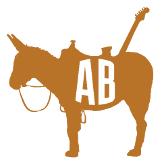
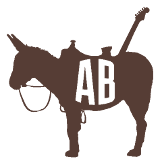
Modified template with new colours

Changed region(s): [[0.0312, 0.0305, 0.9688, 0.9756], [0.1875, 0.6707, 0.25, 0.7012], [0.1562, 0.6402, 0.1875, 0.6707]]

diff --git a/css/styles.css b/css/styles.css
@@ -1,6 +1,6 @@
 html, body {
 	height: 100%;
-	background-color: #fdefc5;
+	background-color: #E4E2E5;
 }
 
 /* START VIDEO PAGE STYLES */
@@ -42,8 +42,8 @@ html, body {
 	margin-top: 0;
 }
 footer {
-	background: #050405;
-	border-bottom: 10px #AF6725 solid;
+	background: #261D22;
+	border-bottom: 10px #563D35 solid;
 }
 #banner {
 	margin-top: 45px;
@@ -55,8 +55,8 @@ footer {
 	-webkit-transform: scale3d(1, 1, 1);
 	*zoom: 1;
 	top: 0px;
-	background-color: #050405;
-	border-top: 5px #AF6725 solid;
+	background-color: #261D22;
+	border-top: 5px #563D35 solid;
 }
 #topbar:after {
 	content: "";
@@ -68,18 +68,20 @@ footer {
 }
 #topbar .ink-navigation ul.black li {
 	font-size: 14px;
-	background-color: #050405;
+	background-color: #261D22;
+	border: 0px;
 }
 #topbar .ink-navigation ul.black li a {
 	padding: .7em 1em;
-	color: #F5B716;
+	color: #BB9911;
 	text-transform: uppercase;
 	font-weight: 300;
 	line-height: 36px;
 	*height: auto;
 }
 #topbar .ink-navigation ul.black li a:hover {
-	color: #F5B716;
+	color: #BB9911;
+	background: #9F9D9E;
 }
 #topbar .ink-navigation ul.black li button.fa-bars span.label {
 	padding: .7em .3em;
@@ -89,7 +91,7 @@ footer {
 #topbar .ink-navigation ul.black li button.fa-bars {
 	background: 0 0;
 	font-size: 1.5em;
-	color: #F5B716;
+	color: #BB9911;
 	border: 0;
 	padding: .8em .8em .8em 0;
 	float: left
@@ -132,7 +134,7 @@ body.ink-drawer .right-drawer li.heading {
 body.ink-drawer .right-drawer li>a {
 	display: block;
 	padding: 6px 15px;
-	color: #F5B716;
+	color: #BB9911;
 	text-decoration: none;
 	text-transform: uppercase;
 	font-size: .875em

diff --git a/_includes/footer.html b/_includes/footer.html
@@ -7,7 +7,7 @@
 				<img src="{{ site.baseurl }}/img/footer_l.png">
 			</div>
 			<div class="all-25 medium-33 small-50 tiny-50 push-middle">
-				<span style="color: #b87329">
+				<span style="color: #563D35">
 				<i class="fa fa-twitter fa-fw"></i> @ArtBergmann<br>
 				<i class="fa fa-facebook fa-fw"></i> Facebook<br>
 				<i class="fa fa-google-plus fa-fw"></i> Google+<br>
@@ -16,7 +16,7 @@
 				</span>
 			</div>
 			<div class="all-25 medium-33 hide-small hide-tiny push-middle">
-				<span style="color: #b87329">
+				<span style="color: #563D35">
 				<i class="fa fa-quote-left fa-3x pull-left"></i>
 				<span class="small">i'd rather straddle this razor blade than sit on that fence</span>
 				</span>
